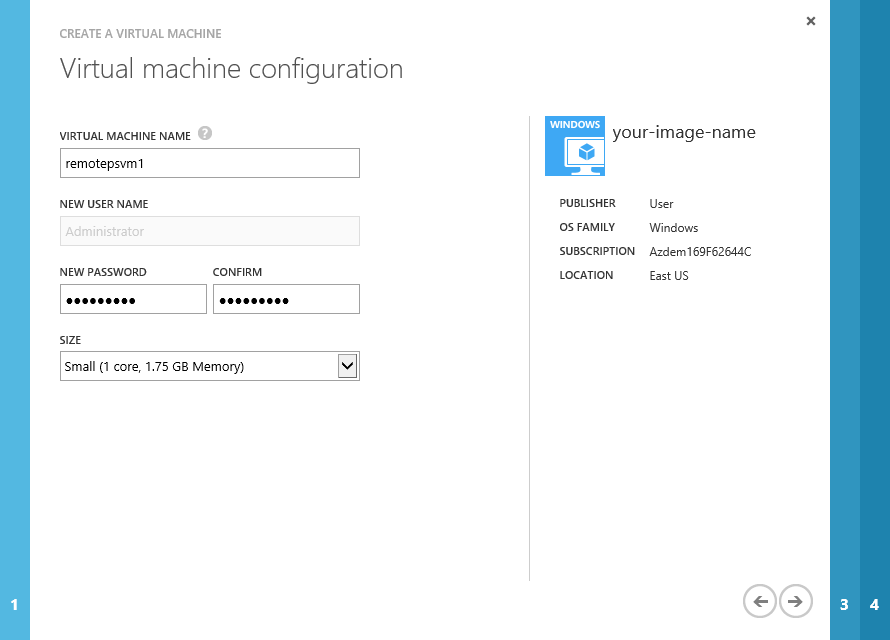
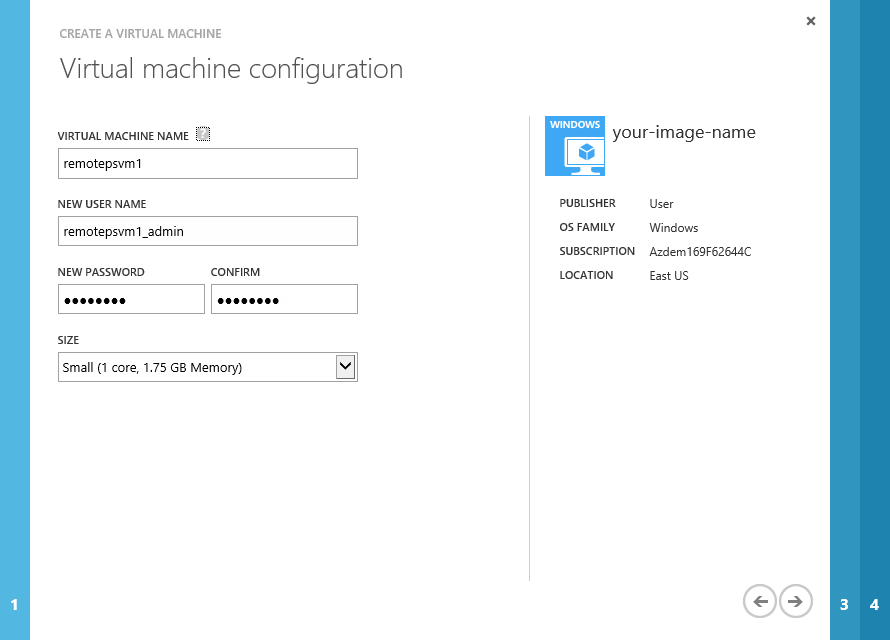
#updated vm creation steps

diff --git a/HOL.md b/HOL.md
@@ -74,7 +74,7 @@ In this task you will use the Quick Create Virtual Machine creation option to pr
 
 	_Virtual Machine OS Selection_
 
-1. In the **Virtual Machine Configuration** page, specify _imgtest1_ for the Virtual Machine **Name** and set both password boxes. Leave the Virtual Machine **Size** with _Small_ value.
+1. In the **Virtual Machine Configuration** page, specify a virtual machine **Name**, an administrator user name and password. Leave the default virtual machine **Size**.
 
 	![Virtual Machine Configuration Page](Images/virtual-machine-configuration-page.png?raw=true "Virtual Machine Configuration Page")
 
@@ -96,7 +96,6 @@ In this task you will use the Quick Create Virtual Machine creation option to pr
 
 1. In the bottom menu, click **Connect** to download an _.rdp_ file to connect to the Virtual Machine using Remote Desktop Connection.
 
-
 	![Connect](Images/connect.png?raw=true)
 
 	_Connecting to the Virtual Machine_
@@ -104,6 +103,8 @@ In this task you will use the Quick Create Virtual Machine creation option to pr
 	>**Note:** When asked for Login, write the same credentials you used while creating the Virtual Machine.
 
 1. Do not close the connection, you will use it in the following exercise.
+
+---
 
 <a name="Exercise2"></a>
 ### Exercise 2: Customize and Generalize the Virtual Machine ###
@@ -130,7 +131,7 @@ In this scenario you are going to configure a script to run when the machine boo
 
 1. Using Windows Explorer, create a folder in the **C:** drive called **EnablePSRemote**.
 
-1. Go to **Folder and Search options** under **Organize** menu
+1. Go to **Folder and Search options** under **Organize** menu.
 
 1. Switch to **View** tab and uncheck **Hide Extensions for Known File Types**.
 
@@ -138,11 +139,11 @@ In this scenario you are going to configure a script to run when the machine boo
 
 	_Hide Extensions for Known File Types_
 
-1. Right click in **EnablePSRemote** window, select **New** | **Text Document** and name it _EnablePSRemote.ps1_.
+1. Right-click in **EnablePSRemote** window, select **New** | **Text Document** and name it _EnablePSRemote.ps1_.
 
 1. Open the file using a text editor (e.g. _notepad_).
 
-1. Copy and Paste the following script into **EnablePSRemote.ps1**.
+1. Copy and paste the following script into **EnablePSRemote.ps1**.
 
 	````PowerShell
 	function Create-Certificate($hostname) {
@@ -213,8 +214,6 @@ In this scenario you are going to configure a script to run when the machine boo
 
 	# Enable Basic Authentication
 	WinRM set winrm/config/service/auth '@{Basic="true"}'
-
-
 	````
 
 1. Save and Close the file.
@@ -242,7 +241,7 @@ In this scenario you are going to configure a script to run when the machine boo
 <a name="Ex2Task4" />
 #### Task 4: Configure a Startup Task for the cmd file ####
 
-1. Go to **Start** and click **Run** 
+1. Go to **Start** and click **Run**. 
 
 1. In the **Run** box write _mmc.exe_ and click **OK**.
 
@@ -283,6 +282,8 @@ In this step we will run sysprep to generalize the image. It will allow multiple
 
 	_Sysprep dialog_
 
+---
+
 <a name="Exercise3" />
 ###Exercise 3: Saving an Image in the Image Library###
 
@@ -313,6 +314,7 @@ In this exercise you are going to use the capture feature of Windows Azure IaaS 
 
 	_Image Details_
 
+---
 
 <a name="Exercise4"></a>
 ### Exercise 4: Provision New Virtual Machines based on the created Image ###
@@ -324,7 +326,7 @@ In this exercise you are going to create a new virtual machine using the image y
 <a name="Ex4Task1" />
 #### Task 1: Create a new Virtual Machine using a base-image ####
 
-1. Log in to the Windows Azure Portal:  https://manage.windowsazure.com.
+1. Log in to the Windows Azure Portal: https://manage.windowsazure.com.
 
 1. Click **New** | **Compute** | **Virtual Machine** | **From Gallery**.
 	![createvmfromimage](Images/createvmfromimage.png?raw=true)
@@ -337,7 +339,7 @@ In this exercise you are going to create a new virtual machine using the image y
 
 	_Virtual Machine operating system selection_
 
-1. Set the **Virtual Machine Name** to _remotepsvm1_ and complete the Administrator Password.
+1. Set the **Virtual Machine Name** to _remotepsvm1_ and complete the administrator username and password.
 
 	![myimagetab](Images/virtualmachinename.png?raw=true)
 
@@ -366,10 +368,9 @@ In this exercise you are going to create a new virtual machine using the image y
 
 4. Click **Add Endpoint** towards the bottom of the page, select **Add Endpoint** option and click **next**. 
 
-5. In the **Specify Endpoint Details** page, use the following settings:
+5. In the **Specify Endpoint Details** page, use the following settings.
 
 	![add-endpoint](Images/add-endpoint.png?raw=true)
-
 
 	>**Note:** Before proceeding, ensure the endpoint configuration is complete.
 
@@ -390,8 +391,7 @@ In this exercise you are going to create a new virtual machine using the image y
 	
 	<!-- mark:1 -->
 	````PowerShell
-	enter-pssession -computername [DNS-NAME] -authentication Basic -Credential administrator -UseSSL -SessionOption (New-PSSessionOption -SkipCACheck -SkipCNCheck)
-
+	Enter-PSSession -computername [DNS-NAME] -authentication Basic -Credential administrator -UseSSL -SessionOption (New-PSSessionOption -SkipCACheck -SkipCNCheck)
 	````
 
 	>**Note:** To configure the same scenario for a domain joined computer you will need to use -Authentication Negotiate instead of Basic.
